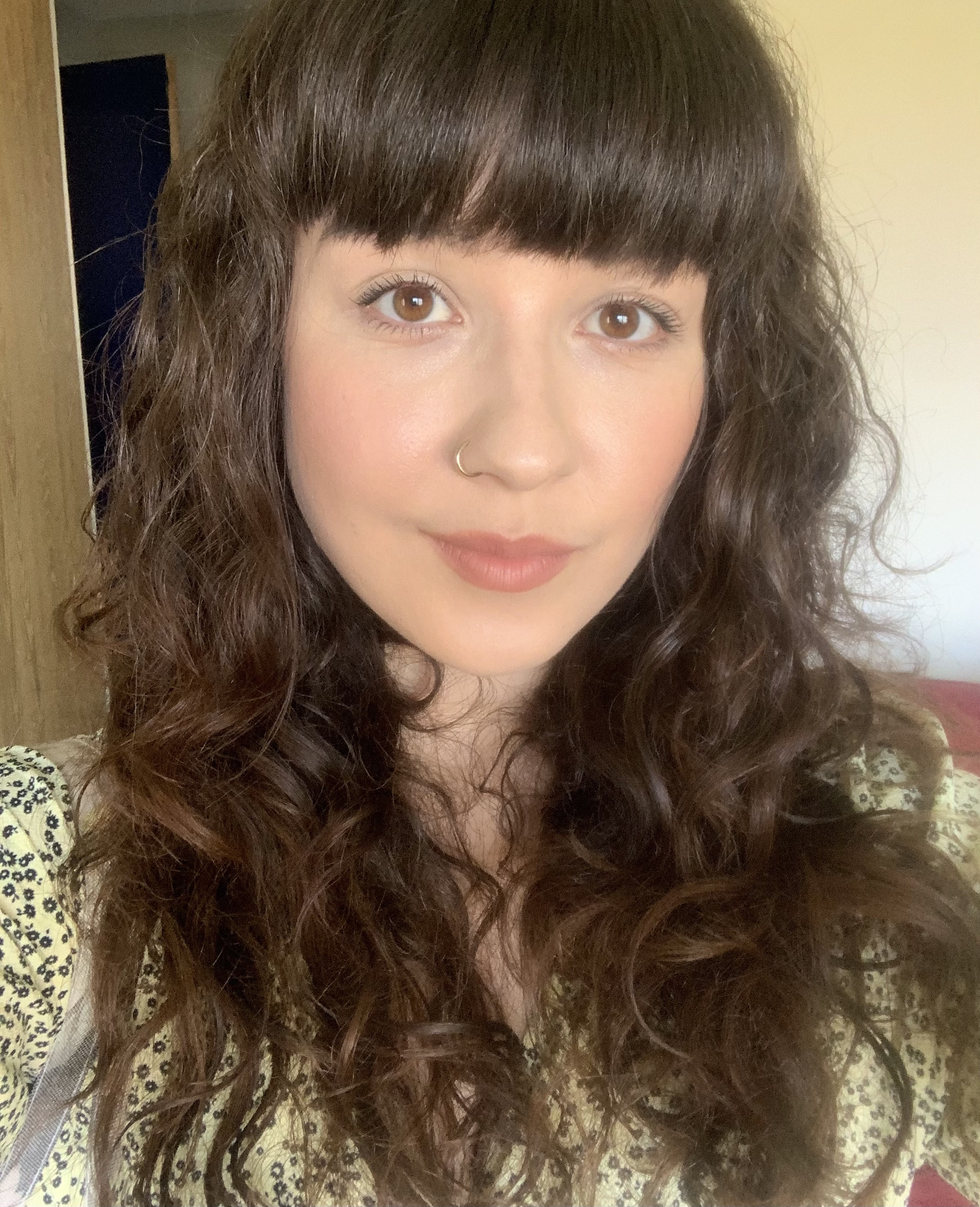
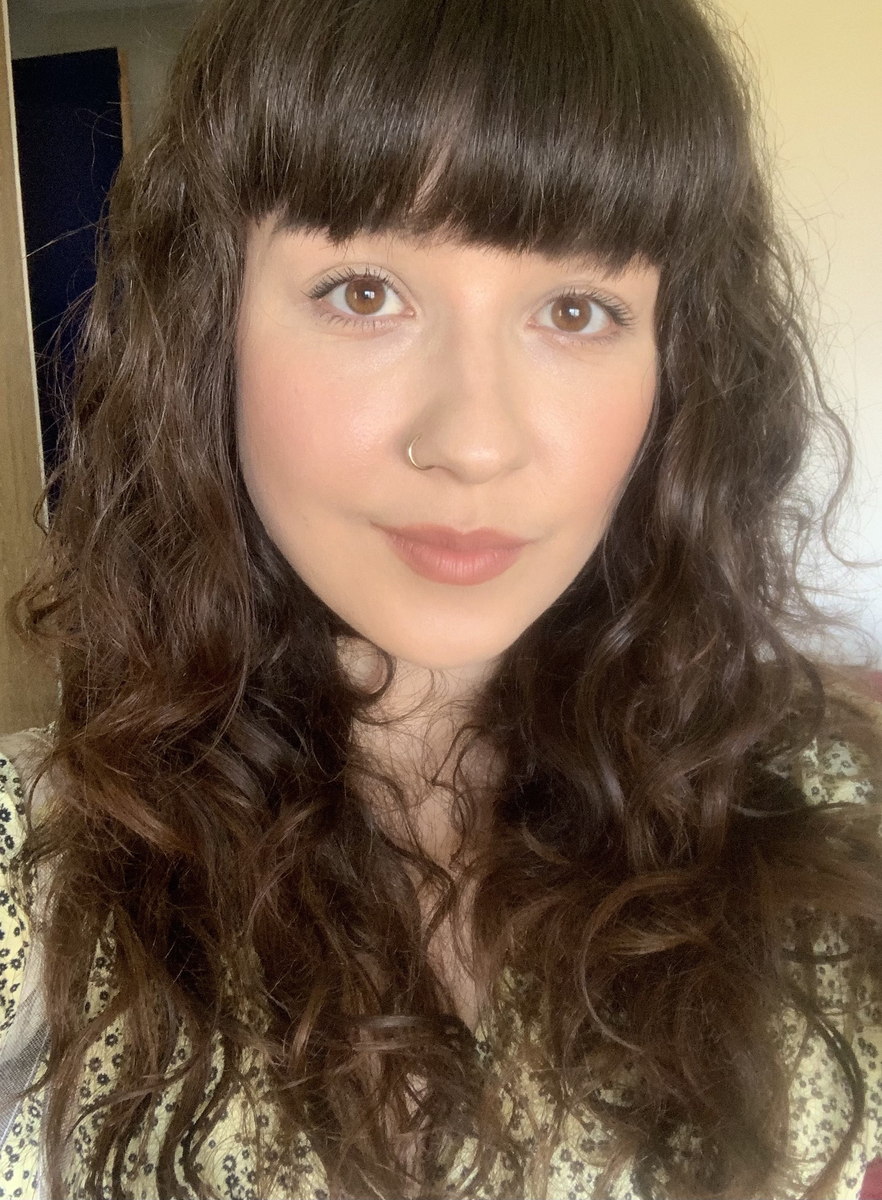
css tweaks

diff --git a/src/components/About/About.css b/src/components/About/About.css
@@ -2,16 +2,16 @@
   height: auto;
   padding-right: 0px;
   padding-left: 0px;
-  padding-top: 0px;
+  padding-top: -10px;
   padding-bottom: 50px;
 }
 
 h2 {
   color: rgb(48, 44, 44);
-  font-size: 9vw;
-  padding: 30px;
+  font-size: 8vw;
+  padding: 10px;
   padding-right: 60px;
-  padding-bottom: 10px;
+  padding-bottom: 20px;
   text-align: right;
 }
 
@@ -26,18 +26,19 @@ h2 {
 }
 
 .about-info img {
-  width: 80%;
-  border-radius: 50%;
-  overflow: hidden;
-  background: none;
+  width: 300px;
+  height: 410px;
+  border: solid 1px salmon;
+  box-shadow: 8px 8px rgb(48, 44, 44);
+  margin-left: auto;
+  margin-right: auto;
+  margin-bottom: 20px;
 }
 
 .about-cards {
   display: grid;
   grid-template-columns: repeat(4, 1fr);
-  gap: 0rem;
-  padding-left: 0px;
-  padding-right: 0px;
+  padding-bottom: 10px;
 }
 
 .about-card {
@@ -80,8 +81,8 @@ h2 {
   gap: 1rem;
   color: salmon;
   font-size: 5vh;
-  padding: 20px;
-  padding-bottom: 30px;
+  padding: 10px;
+  padding-bottom: 20px;
 }
 
 .confluence {
@@ -212,7 +213,7 @@ background: salmon;
     gap: 0.5rem;
   }
 
-  .about-çcontent p {
+  .about-content p {
     padding-right: 20px;
   }
 
@@ -235,5 +236,12 @@ background: salmon;
   .confluence {
     font-size: 1.5vh;
     padding-top: 4px;
+  }
+
+  .about-info img {
+    width: 220px;
+    height: 300px;
+    border: solid 1px salmon;
+    box-shadow: 8px 10px rgb(48, 44, 44);
   }
 }

diff --git a/src/components/CTA/CTA.css b/src/components/CTA/CTA.css
@@ -15,6 +15,7 @@
   gap: 1rem;
   font-size: 1.25rem;
   animation: fade-in 1s;
+  overflow-y: hidden;
 }
 
 .github {
@@ -23,6 +24,7 @@
   gap: 1.5rem;
   font-size: 1.75rem;
   padding: 15px;
+  overflow: hidden;
 }
 
 .linkedin {
@@ -31,6 +33,7 @@
   gap: 1.5rem;
   font-size: 1.75rem;
   padding: 3px;
+  overflow: hidden;
 }
 
 .cv {

diff --git a/src/components/About/About.jsx b/src/components/About/About.jsx
@@ -28,7 +28,7 @@ export default function About() {
   return (
     <section id="about">
       <h2>About</h2>
-      <div className="container about-container">
+      <div className="about-container">
         <div className="about-info">
           <img src={profilePic} alt="portrait of Leah" />
         </div>
